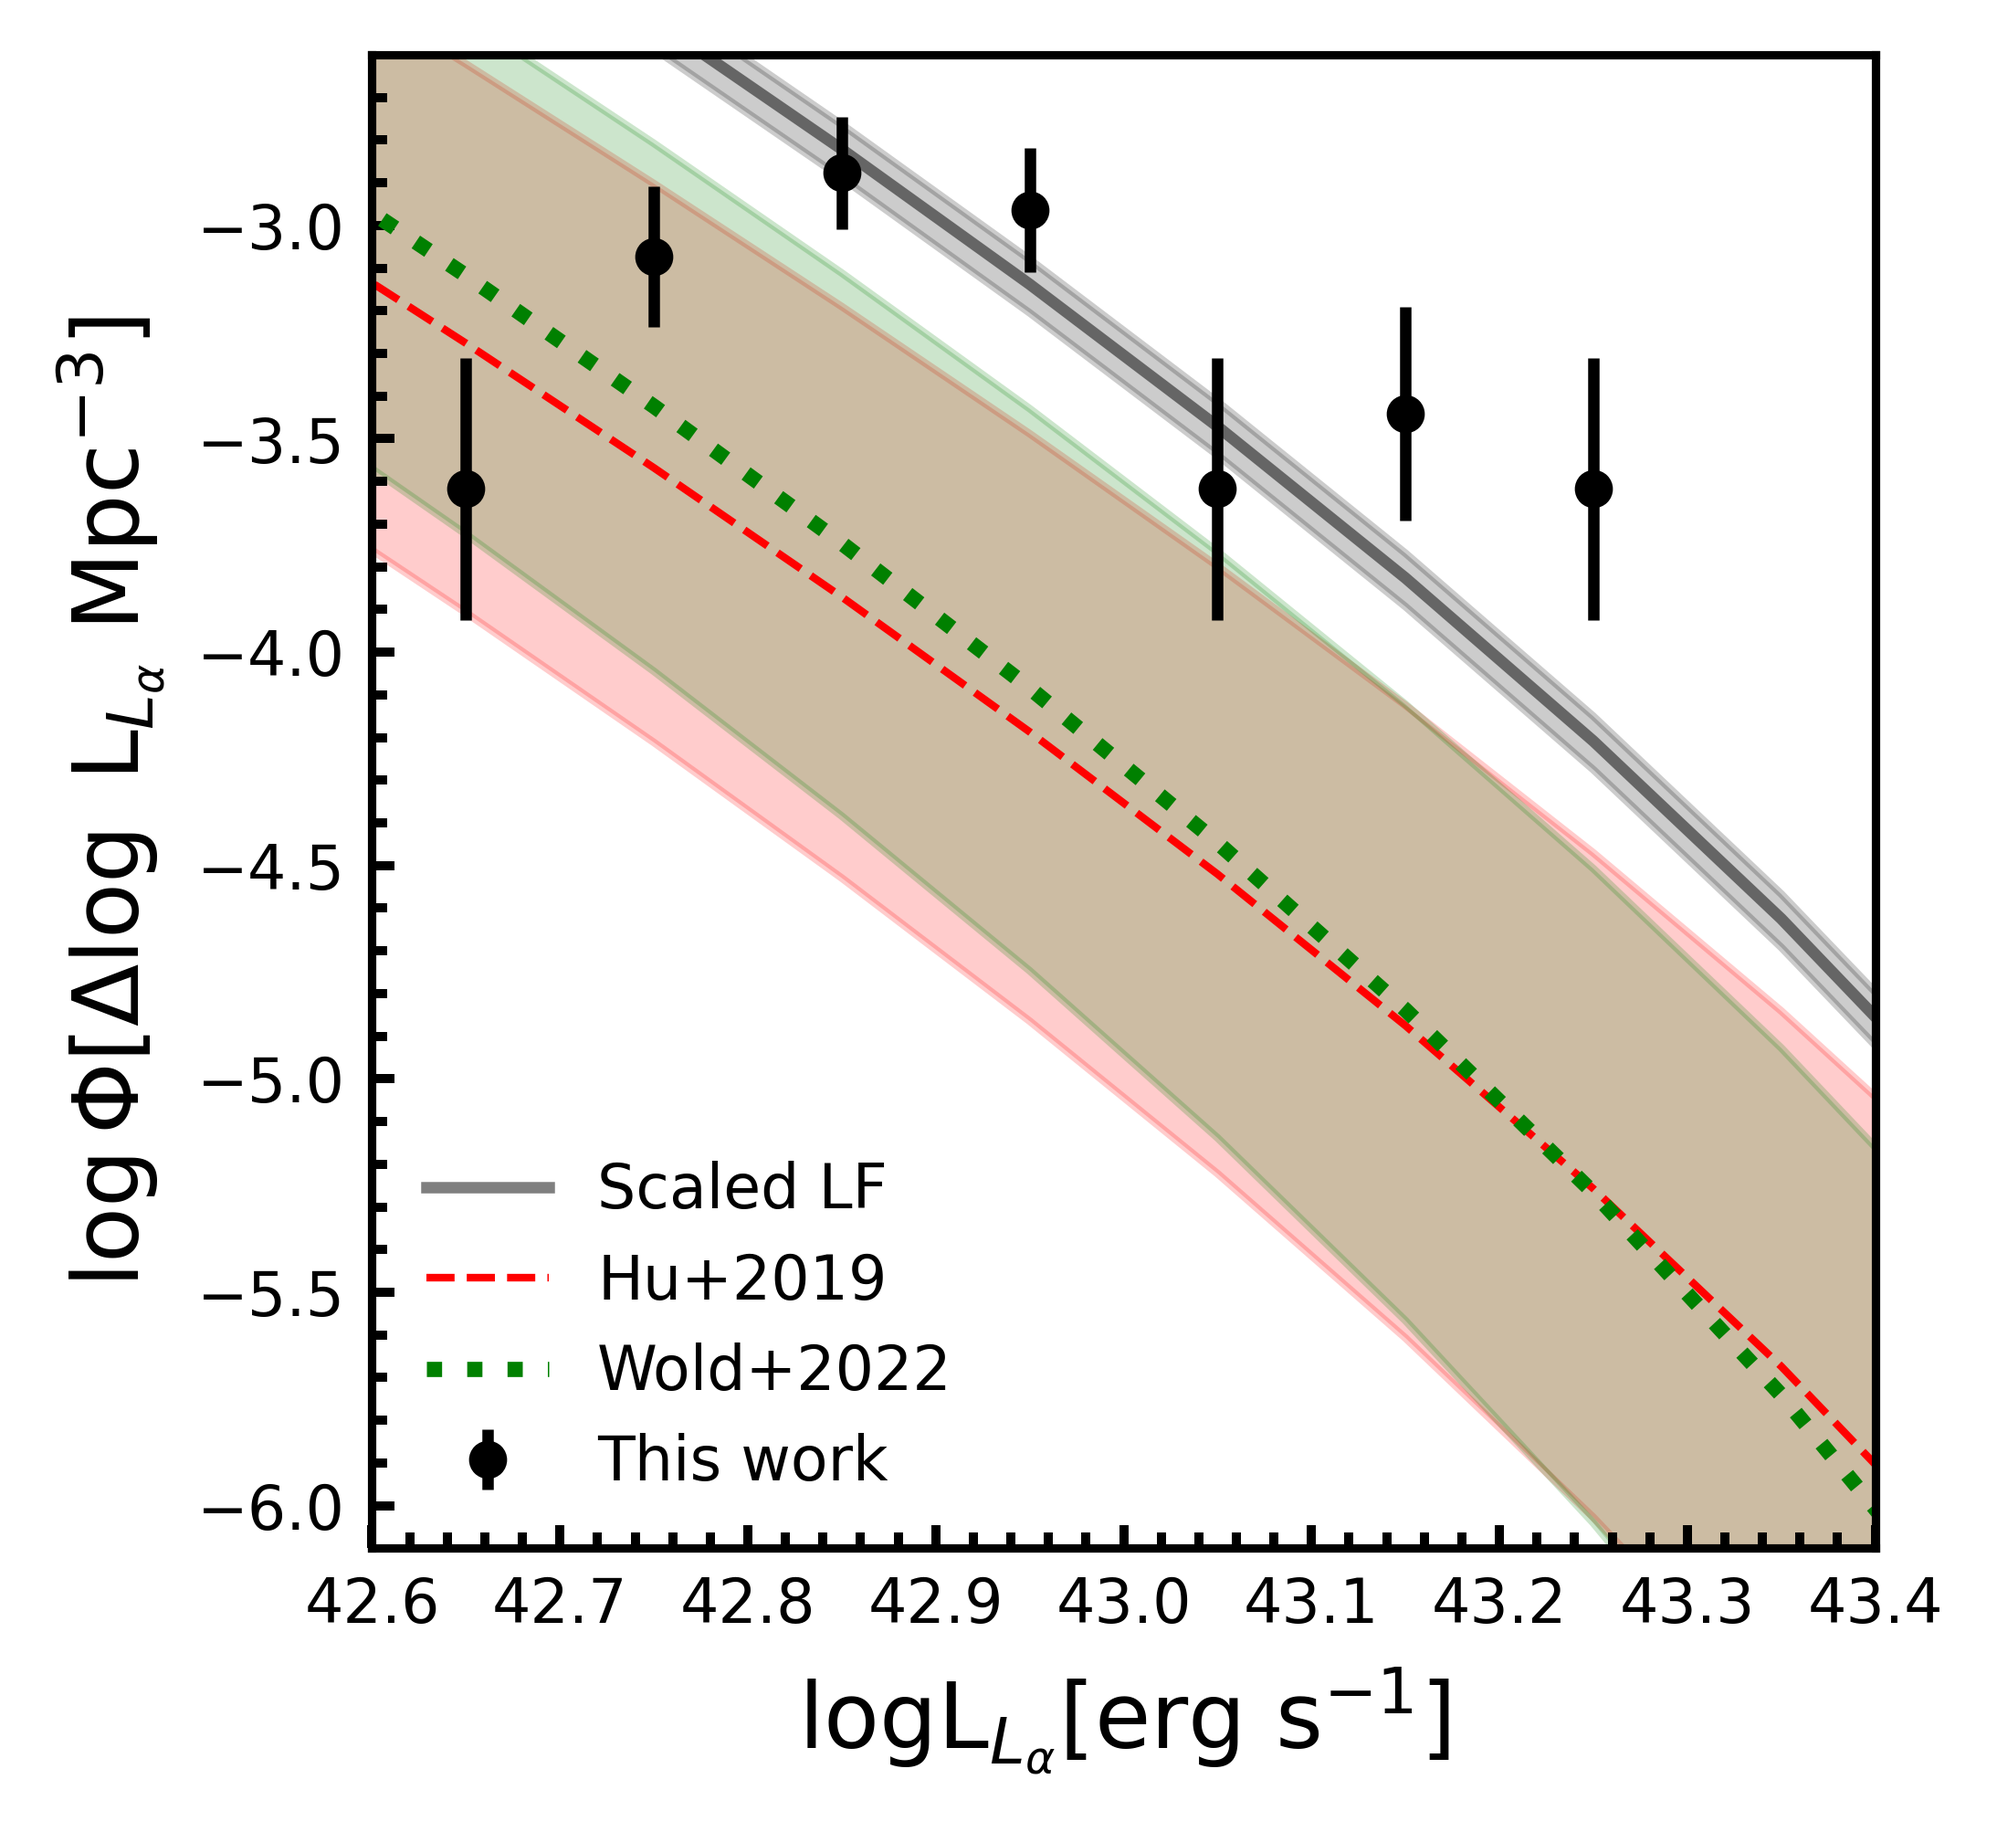
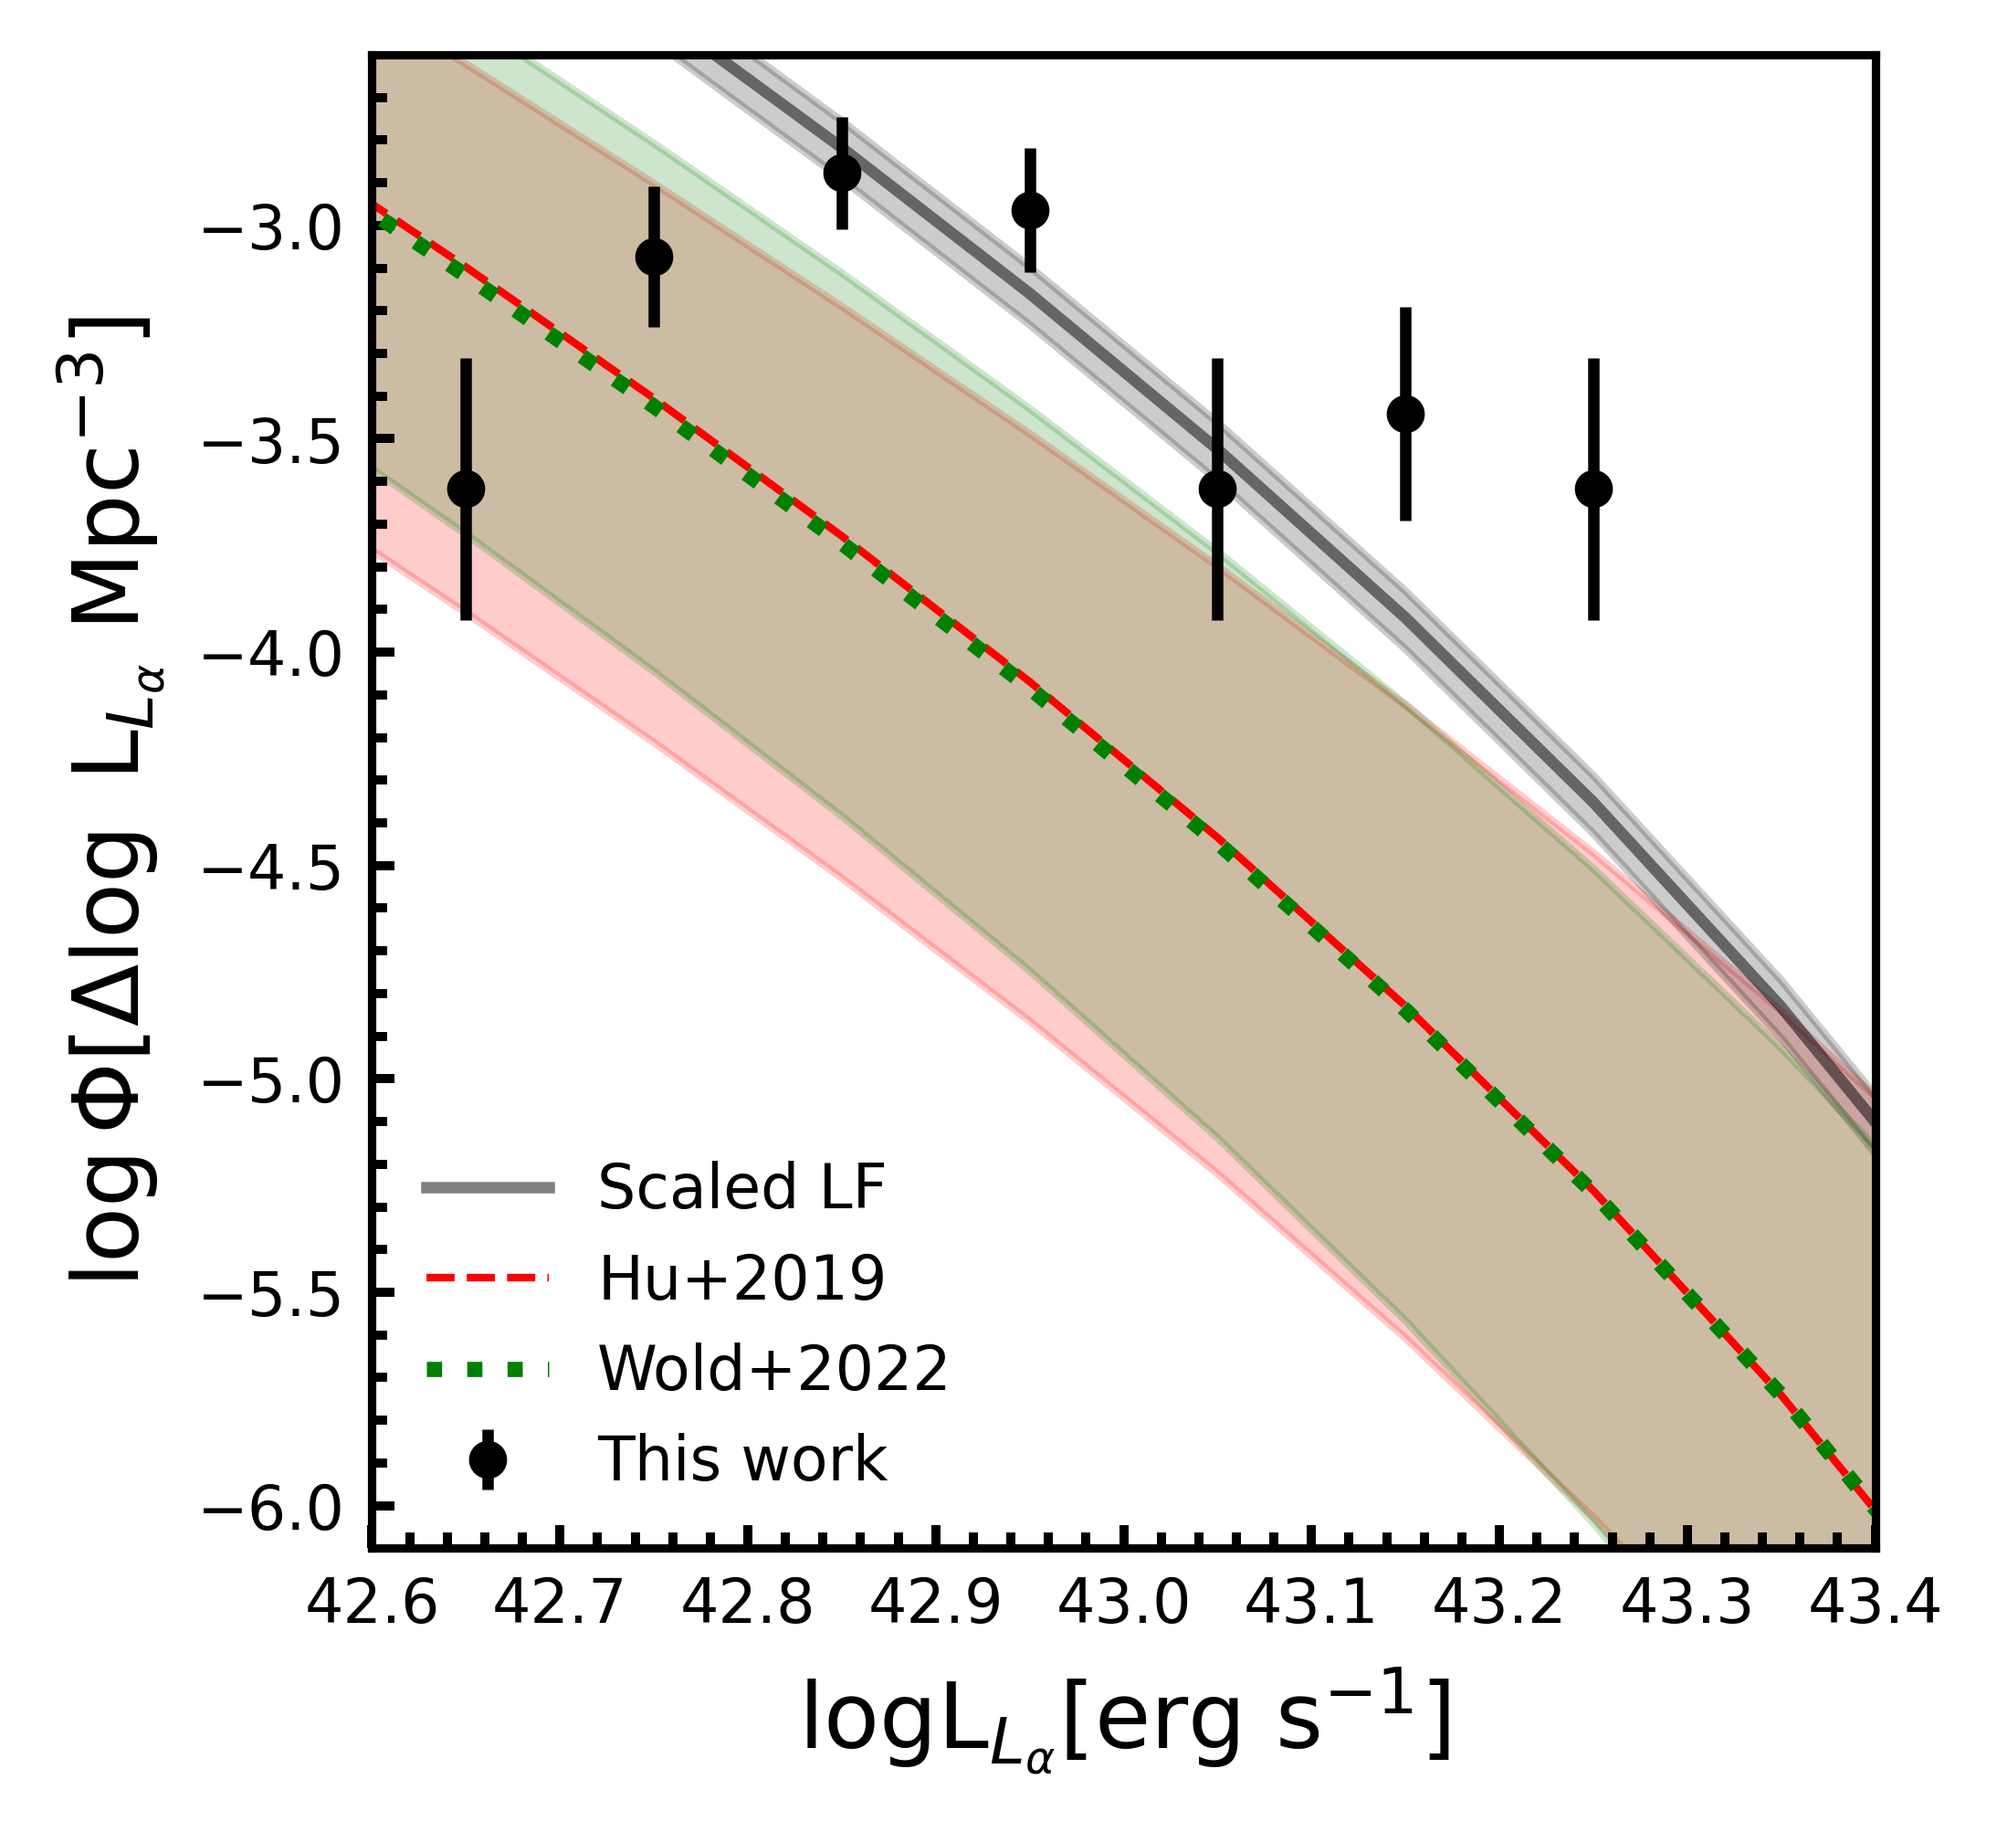
Adding completeness plot

diff --git a/lyman_luminosities.py b/lyman_luminosities.py
@@ -186,7 +186,7 @@ if __name__ == '__main__':
     y, x = np.histogram(log_10_lya, bins = bins)
     y_err = np.sqrt(y)
     x_avg = np.array([(x[i] + x[i+1])/2 for i in range(len(x) - 1)])
-    factor = (effective_volume * complete(convert_log10_lya_nmag(y)) * binwidth) 
+    factor = (effective_volume * complete(convert_log10_lya_nmag(y)) * binwidth)
     y = y/factor
     y_err = y_err/factor
     y_err_log = (1./np.log(10)) * (y_err.value/y.value)
@@ -199,6 +199,11 @@ if __name__ == '__main__':
     popt = [10**(-4.19), 10**(43.08)]
     popt_lower = [10**(-4.5), 10**(42.97)]
     popt_upper = [10**(-3.93), 10**(43.22)]
+
+    # Selection completeness corrected values (not the popt and plower though)
+    #popt = [10**(-3.6), 10**(42.94)]
+    #popt_lower = [10**(-4.5), 10**(42.97)]
+    #popt_upper = [10**(-3.93), 10**(43.22)]
 
     def fitted_shecter(L: float, offset):
         """Scaled version of the Hu et al shecter function. For fitting and determining our overdensity."""
